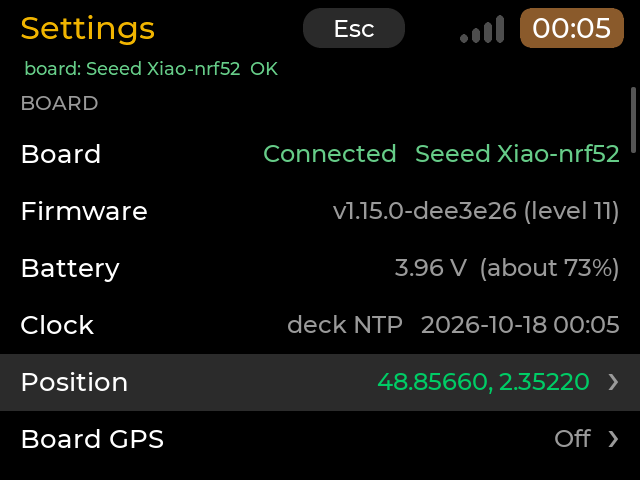
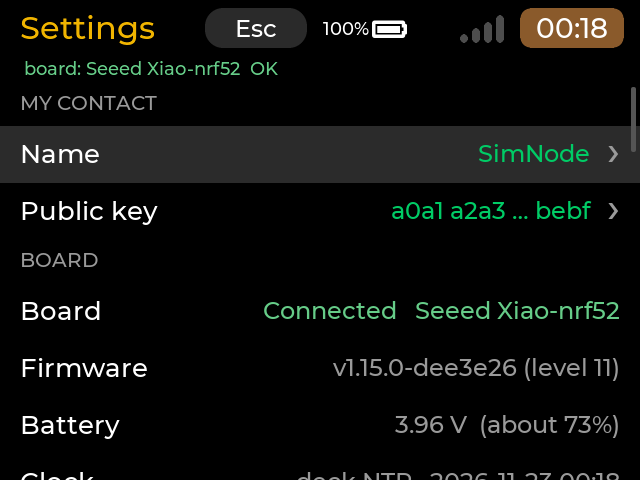
docs: Vinyl and Mesh Hop screenshots re-rendered, Vinyl Equalizer, Knock-knock, Transition shots added
Claude-Session: https://claude.ai/code/session_01DZirtJsMfHq7t5PFzh86rt

diff --git a/apps/mesh-hop/README.md b/apps/mesh-hop/README.md
@@ -184,10 +184,10 @@ had **Search** since 0.7.0 and Settings starts with **MY CONTACT** since 0.7.0 (
 
 | | |
 | --- | --- |
-| ![Home](../../docs/screenshots/mesh-hop-home.png) Home: Chats (unread total), Contacts, Settings | ![Chats](../../docs/screenshots/mesh-hop-chats.png) Chats at 640x480: the Search / Add channel bar, channels and direct chats with their unread counts |
+| ![Home](../../docs/screenshots/mesh-hop-home.png) Home: Chats (unread total), Contacts, Tools, Settings, Node | ![Chats](../../docs/screenshots/mesh-hop-chats.png) Chats at 640x480: the Search / Add channel bar, channels and direct chats with their unread counts |
 | ![Conversation](../../docs/screenshots/mesh-hop-conversation.png) 640x480 by touch: a conversation's own page, the messages, the entry and Send | ![Compose with the on-screen keyboard](../../docs/screenshots/mesh-hop-compose.png) Writing without a keyboard: the compose view above the on-screen keyboard |
-| ![Options of a chat](../../docs/screenshots/mesh-hop-options.png) Hold a chat (or Ctrl+O): its options (Search messages, Add channel, Mute, Delete, Details) | ![Contacts](../../docs/screenshots/mesh-hop-contacts.png) Contacts: the Filter / Sort / More bar and the list |
-| ![Contact details](../../docs/screenshots/mesh-hop-details.png) A contact's details: Message, Groups, Delete, then name, type, groups, key, route | ![Settings](../../docs/screenshots/mesh-hop-settings.png) Settings: the BOARD section with Position and Board GPS |
+| ![Options of a chat](../../docs/screenshots/mesh-hop-options.png) Hold a chat (or Ctrl+O): its options (Search messages, Add channel, Mute, Delete, Details) | ![Contacts](../../docs/screenshots/mesh-hop-contacts.png) Contacts: the Search / Filter / Sort / More bar and the list |
+| ![Contact details](../../docs/screenshots/mesh-hop-details.png) A contact's details: Message, Groups, Delete, then name, type, groups, key, route | ![Settings](../../docs/screenshots/mesh-hop-settings.png) Settings: MY CONTACT (name, public key), then the BOARD section |
 | ![Statistics](../../docs/screenshots/mesh-hop-statistics.png) Statistics of the board | ![Chats at 800x480](../../docs/screenshots/mesh-hop-chats-800.png) 800x480: Chats in two panes, the conversation follows the selected chat |
 | ![Contacts at 800x480](../../docs/screenshots/mesh-hop-contacts-800.png) 800x480: Contacts, with the SNR on the rows | |
 

diff --git a/apps/vinyl/README.md b/apps/vinyl/README.md
@@ -37,7 +37,9 @@ Headless harness, demonstration world (`VINYL_DEMO=1`):
 | ![Add to playlist](screenshots/35-add-to-playlist-480x320.png) | ![Playback with Gain boost and Volume steps](screenshots/37-playback-480x320.png) |
 | ![the Gain boost list](screenshots/38-gain-boost-480x320.png) | ![the Volume steps list](screenshots/39-volume-steps-480x320.png) |
 | ![the volume chip in dB](screenshots/40-db-chip-480x320.png) | ![Music folders with two network shares, one not answering](screenshots/42-network-folders-480x320.png) |
-| ![a track from a network share on Now playing](screenshots/44-now-playing-share-480x320.png) | |
+| ![a track from a network share on Now playing](screenshots/44-now-playing-share-480x320.png) | ![the Equalizer with the Bass boost preset](screenshots/46-equalizer-480x320.png) |
+| ![the Equalizer presets](screenshots/47-eq-presets-480x320.png) | ![the Menu with Knock-knock On](screenshots/48-knock-knock-480x320.png) |
+| ![the Transition list: Normal, Gapless, Crossfade 5, 10, 20 sec](screenshots/49-transition-480x320.png) | ![the end of the Keys page: queue and playlist keys](screenshots/50-keys-end-480x320.png) |
 
 The deck (640x480), square (480x480) and large (800x480, two panes), the Menu, the Keys, the Library hub, a playlist and the dB chip at 320x480, Add a network folder at 800x480 and the network shares at 320x480:
 ![deck](screenshots/09-now-playing-640x480.png) ![square](screenshots/06-now-playing-480x480.png)
